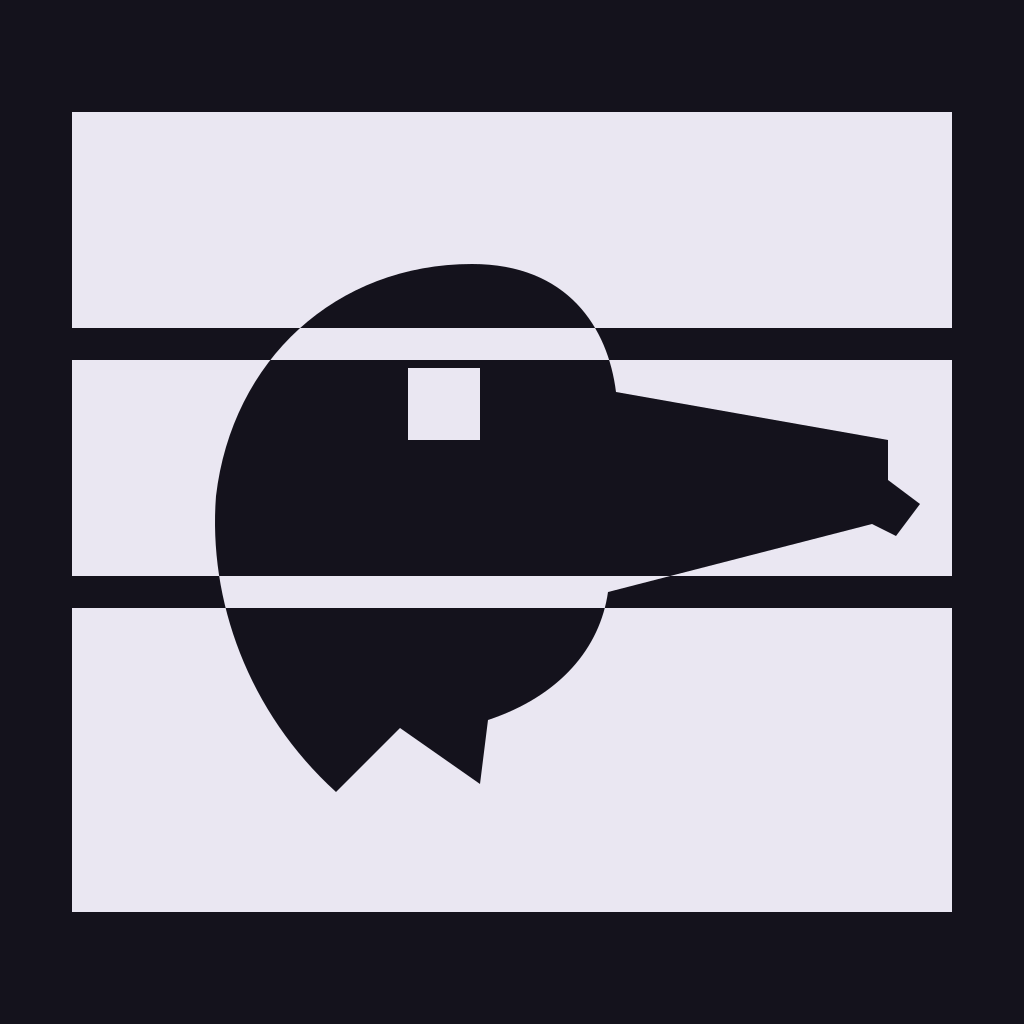
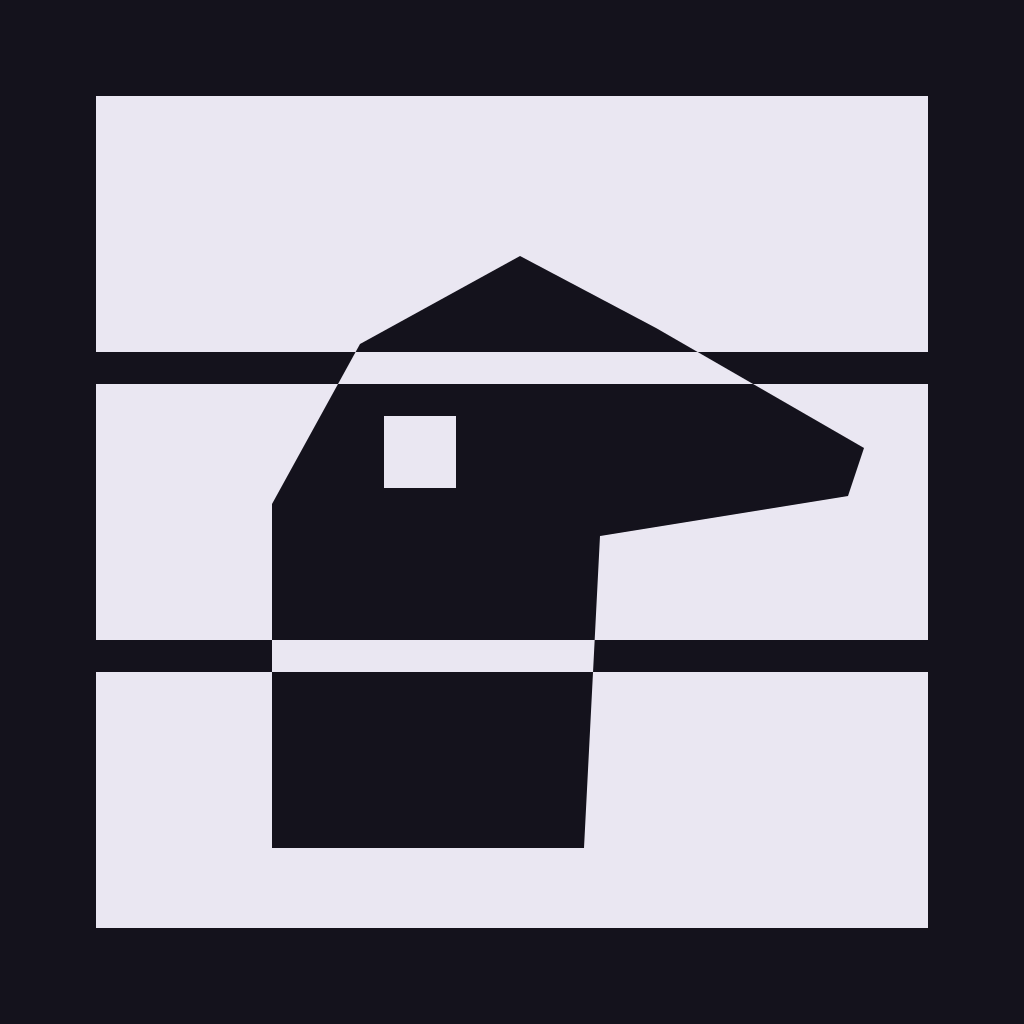
fix: restore the mark to concept 36 as it was drawn
I had redrawn the head - softer crown, hooked bill, throat hackles - on the
grounds that the generated geometry read poorly at size. That was not my
call to make: the mark was chosen as drawn, and this restores it.

The original is all straight cuts, which is the better argument anyway: the
head is made of the same operation as the bands it is cut from, so the bird
and the strata read as one object rather than an illustration laid over a
diagram. Every export is regenerated from it, and the brand guide no longer
describes anatomy the mark does not have.

Changed region(s): [[0.0625, 0.0938, 0.9375, 0.9062]]

diff --git a/assets/brand/README.md b/assets/brand/README.md
@@ -7,9 +7,10 @@ The bird is not drawn on top of them - it is the void they leave behind, so the
 head only exists because the layers do. That is the program's own architecture,
 drawn: Raven is a real Windows seen through the layers Raven puts around it.
 
-The head is a corvid and not a generic bird on purpose. The long bill with the
-hooked tip, the receding forehead and the shaggy throat hackles are what
-separate a raven from every other silhouette at this size.
+The head is faceted rather than drawn - straight cuts only, the same vocabulary
+as the bands it is cut from, so the bird and the strata read as one object made
+of one operation. The long wedge bill breaking toward the right edge is what
+fixes it as a bird at every size.
 
 ## Which file to use
 
@@ -79,9 +80,11 @@ and `bg_primary` should be these, so the mark and the program agree.
 - **Do not put the pale-ink icon on a light ground.** The bands vanish and the
   bird disappears with them. Use the light-ink file or the `-on-dark` export.
 - Keep clear space of one band-height (54 units) on every side.
-- Geometry, for anyone editing the paths: the frame is 220 units wide inside an
-  18-unit margin; bands are 54, 54 and 76 units deep with 8-unit seams; the eye
-  is an 18-unit square; the bill runs from x=150 to the hook at x=230.
+- Geometry, for anyone editing the paths: the frame is 208 units square inside a
+  24-unit margin; three bands 64 units deep, separated by 8-unit seams; the eye
+  is an 18-unit square at (96, 104); the bill runs from the brow at x=130 out to
+  the tip at x=216. Every edge of the head is a straight line - there is not one
+  curve in the mark, and adding one would break it.
 
 The icon masters keep `currentColor` so a caller can ink them. The logo pair
 ships with the ink baked in, because the README header block picks between them
